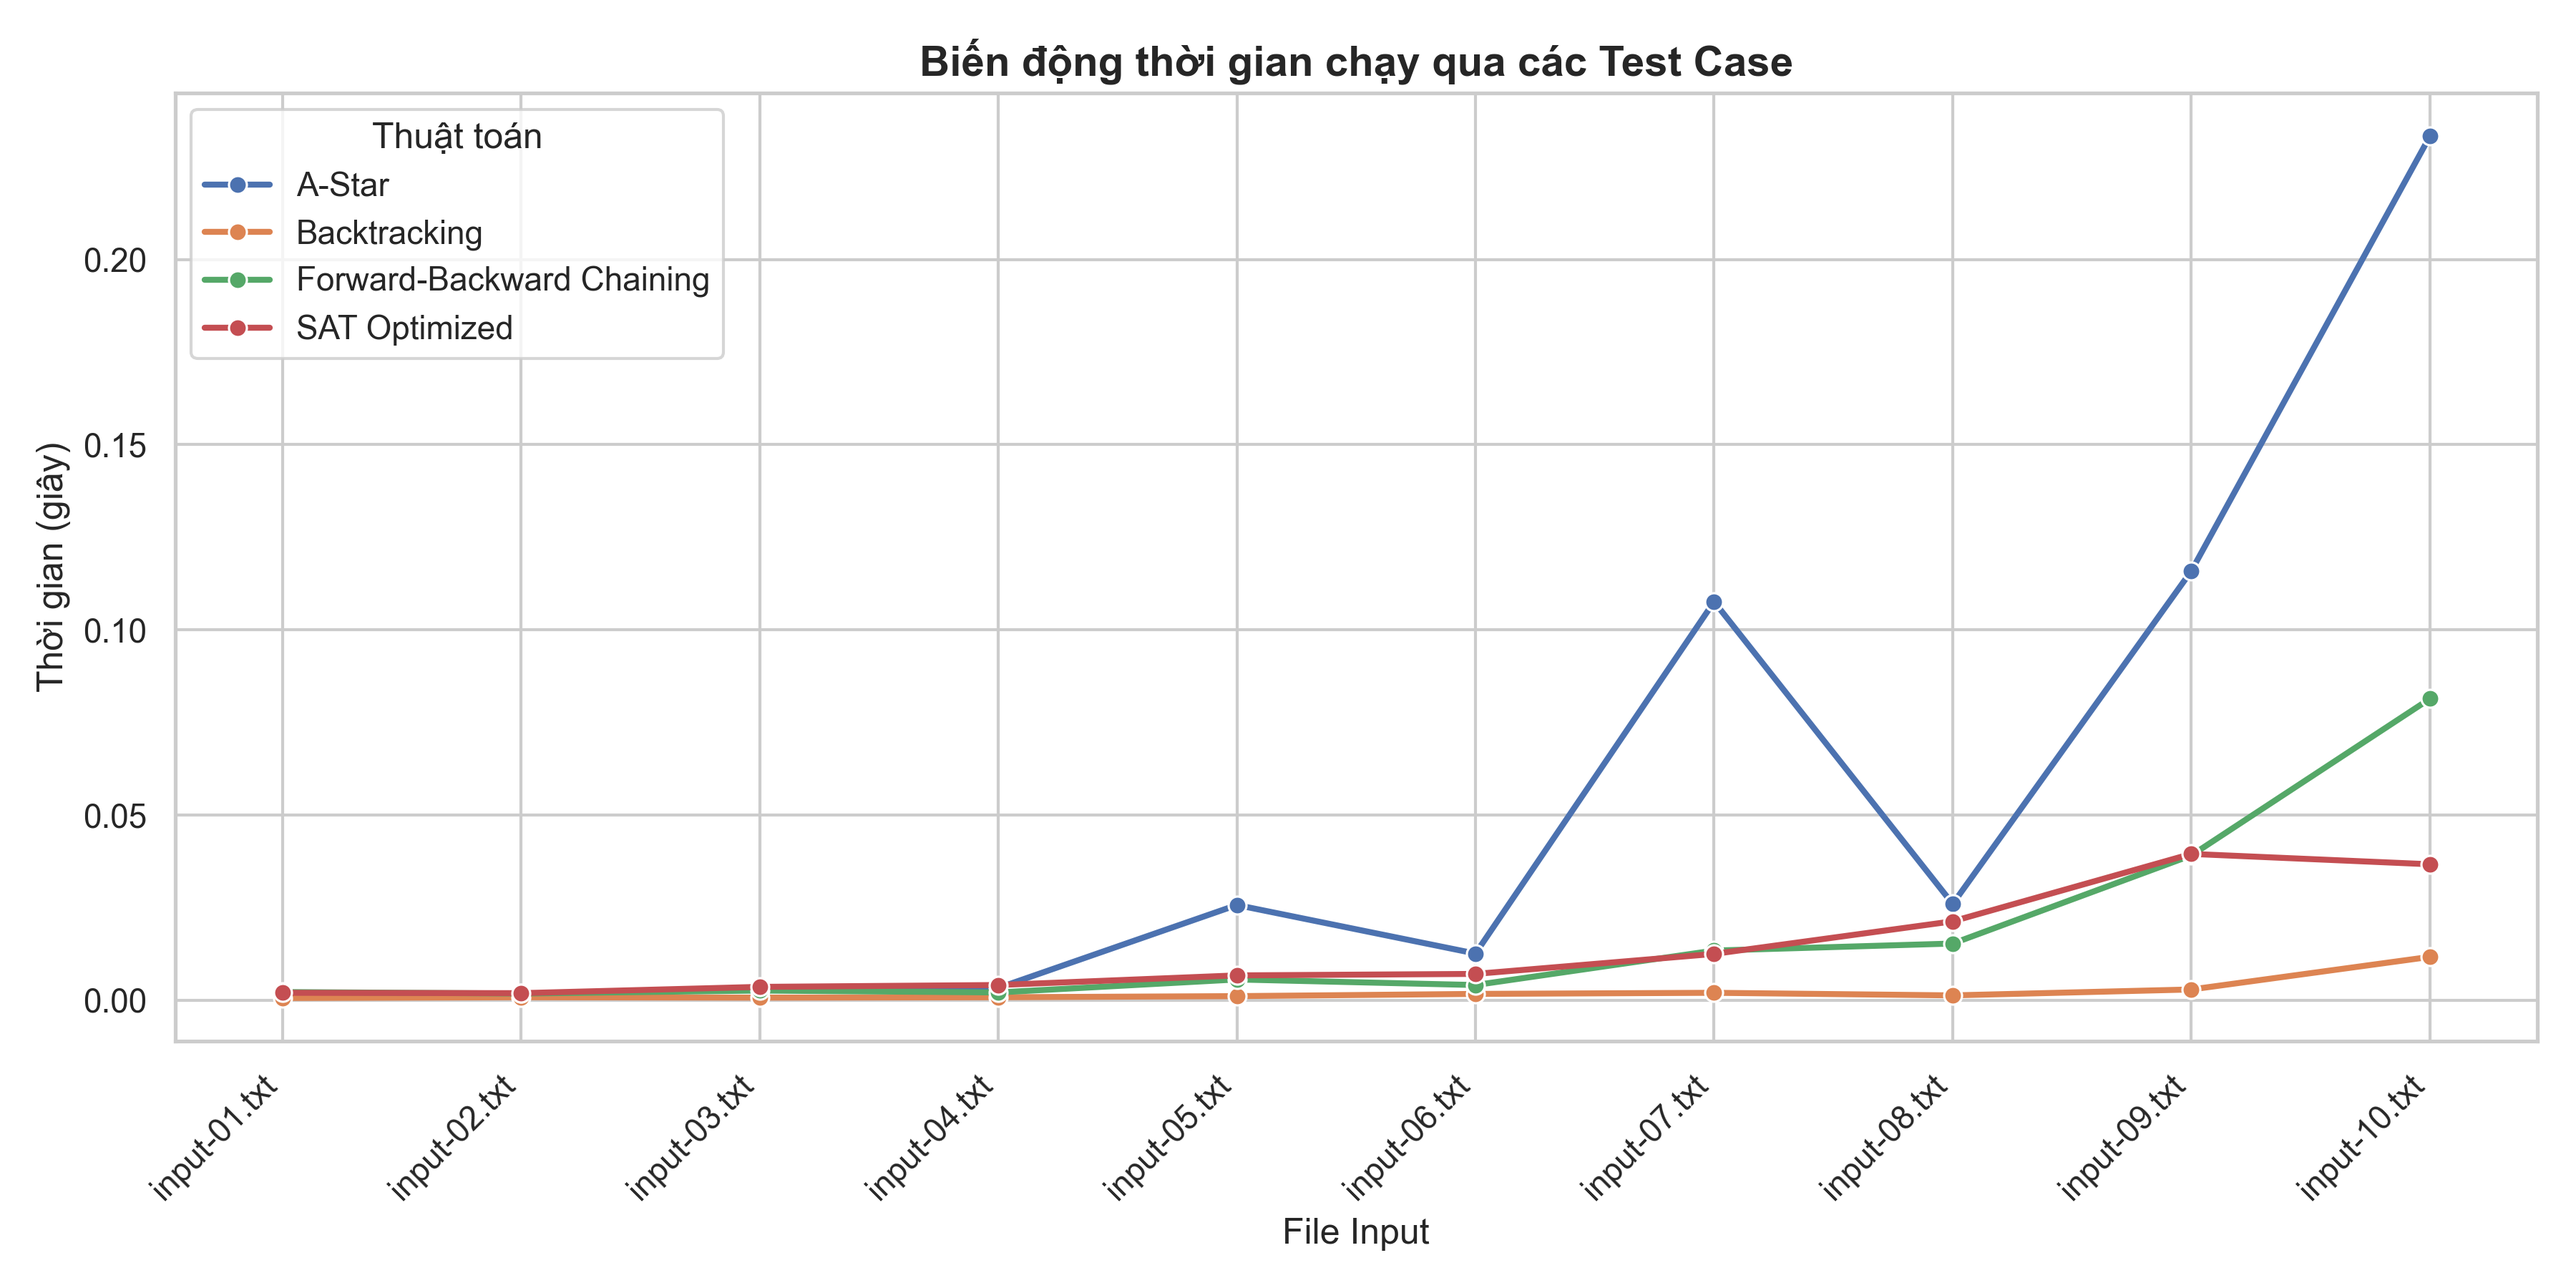
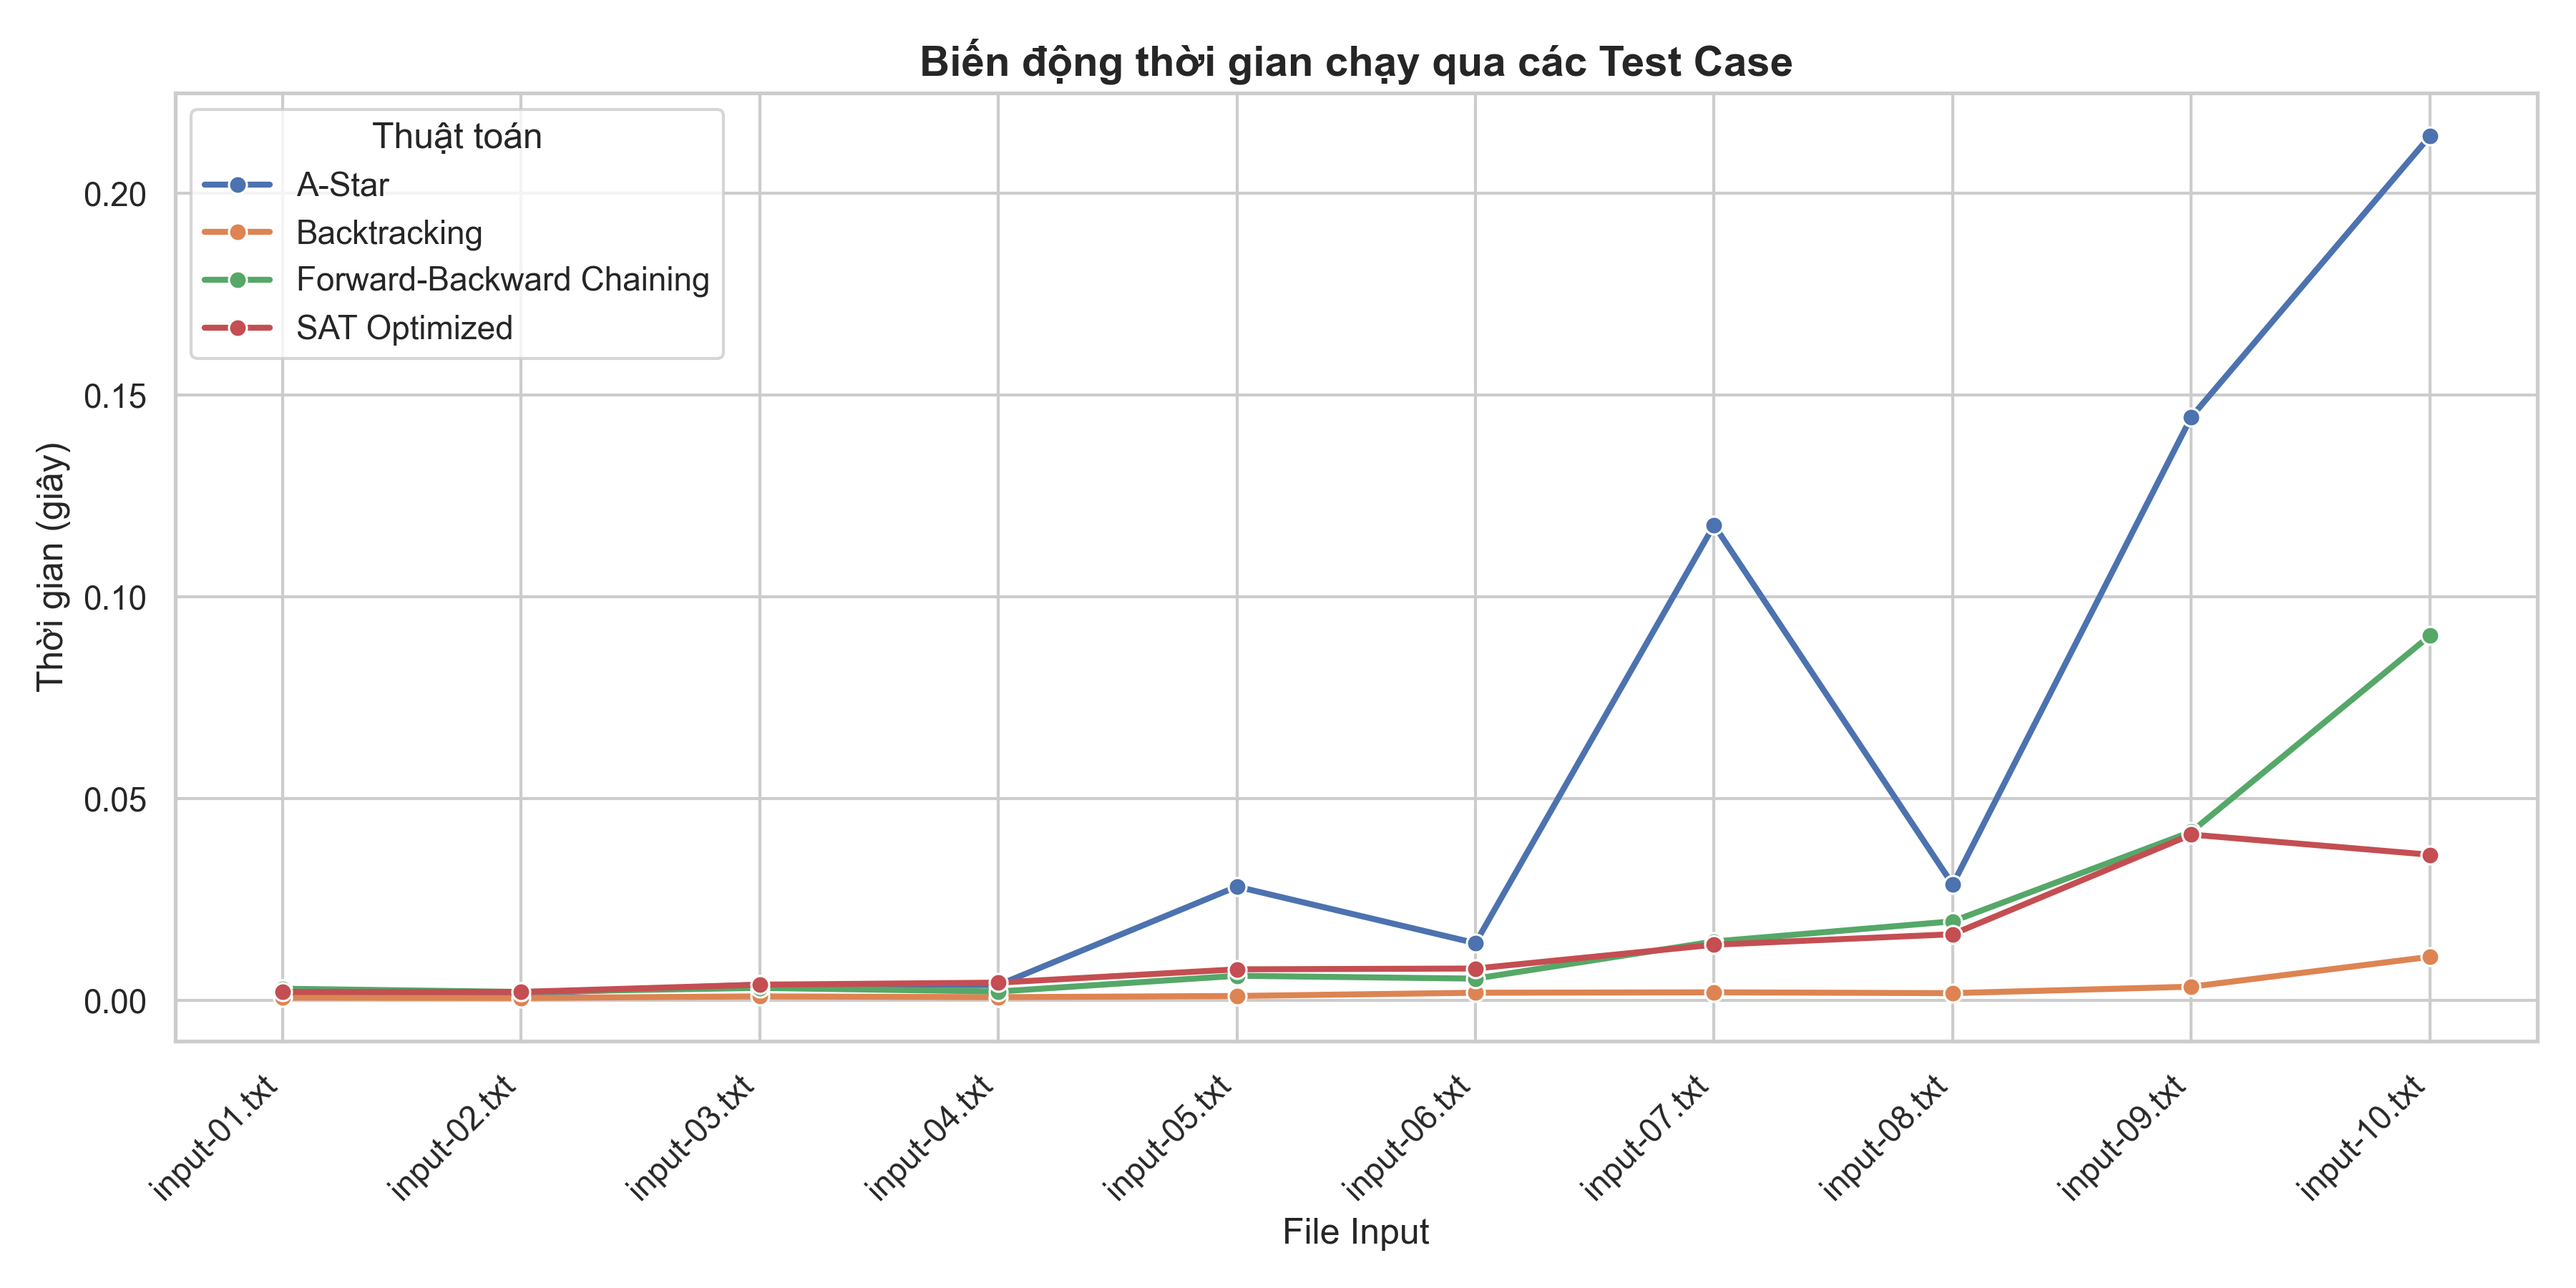
Fix Astar

diff --git a/Source/game.py b/Source/game.py
@@ -7,6 +7,28 @@ class GameInstance:
         self.grid = grid
         self.horizontal = horizontal
         self.vertical = vertical
+        self.constrained_cells = self._compute_constrained_cells()
+    
+    def _compute_constrained_cells(self):
+        """Tính toán và lưu tất cả các ô bị ràng buộc (có điều kiện <, >, ^, v)"""
+        constrained_cells = set()
+        n = self.n
+        
+        # Quét các ràng buộc chiều ngang
+        for i in range(n):
+            for j in range(n - 1):
+                if self.horizontal[i][j] != 0:
+                    constrained_cells.add((i, j))
+                    constrained_cells.add((i, j + 1))
+        
+        # Quét các ràng buộc chiều dọc
+        for i in range(n - 1):
+            for j in range(n):
+                if self.vertical[i][j] != 0:
+                    constrained_cells.add((i, j))
+                    constrained_cells.add((i + 1, j))
+        
+        return constrained_cells
 
 def print_output(path, game):
     file = open(path, 'w')
